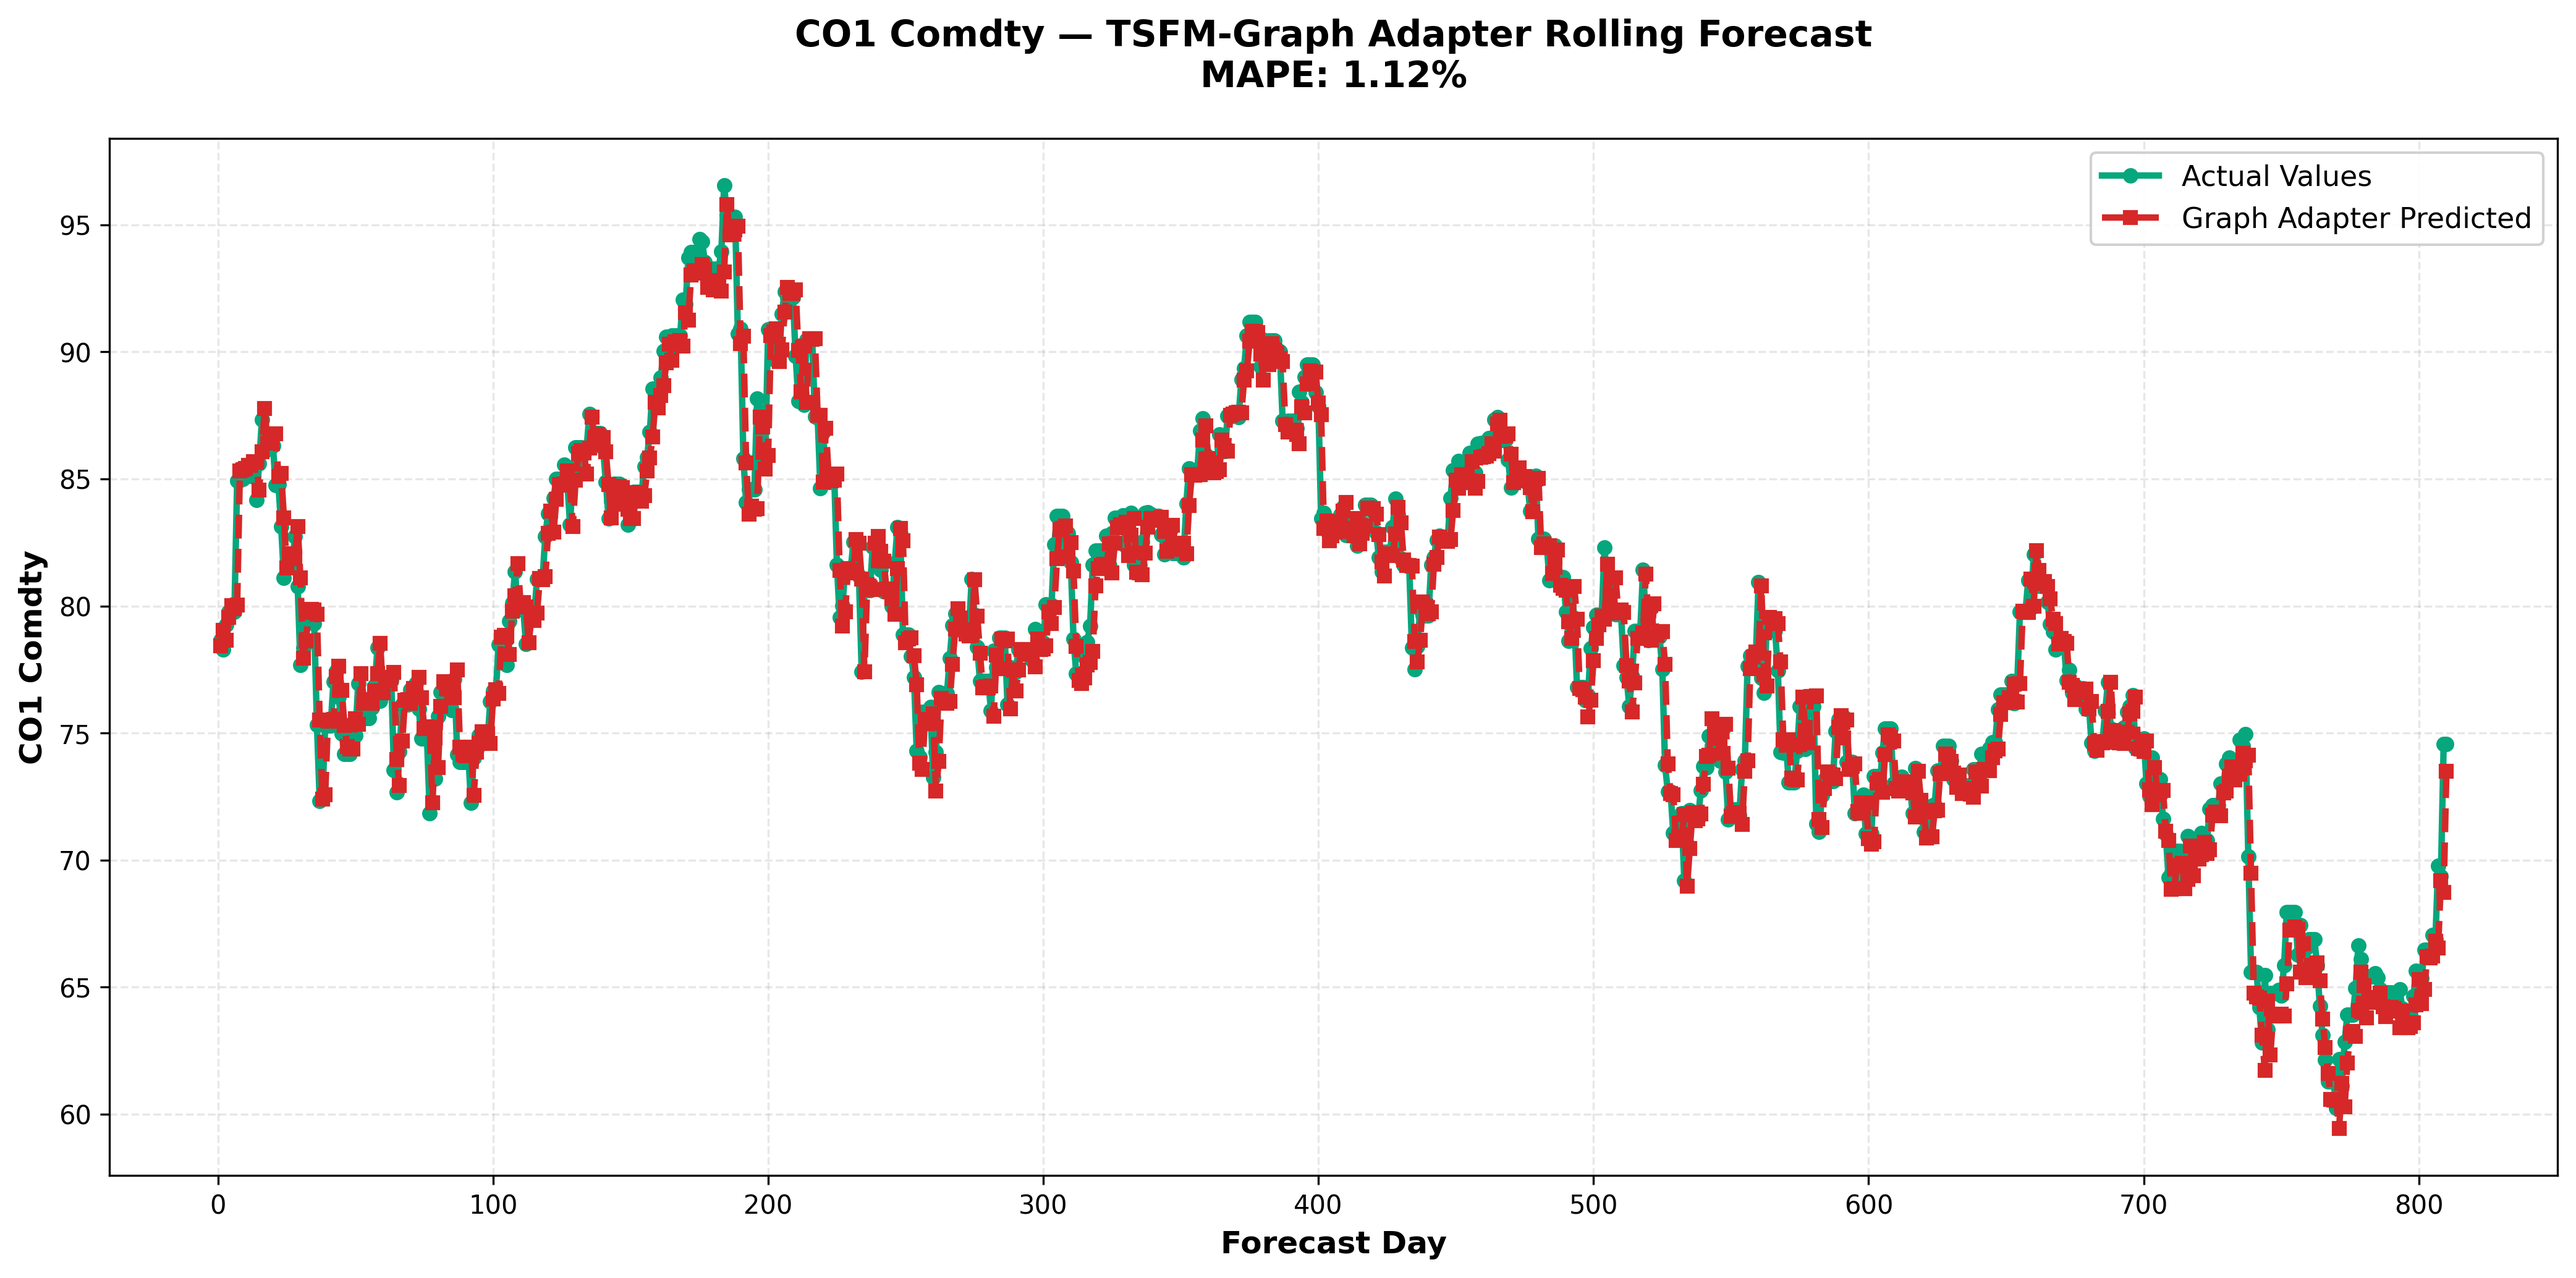
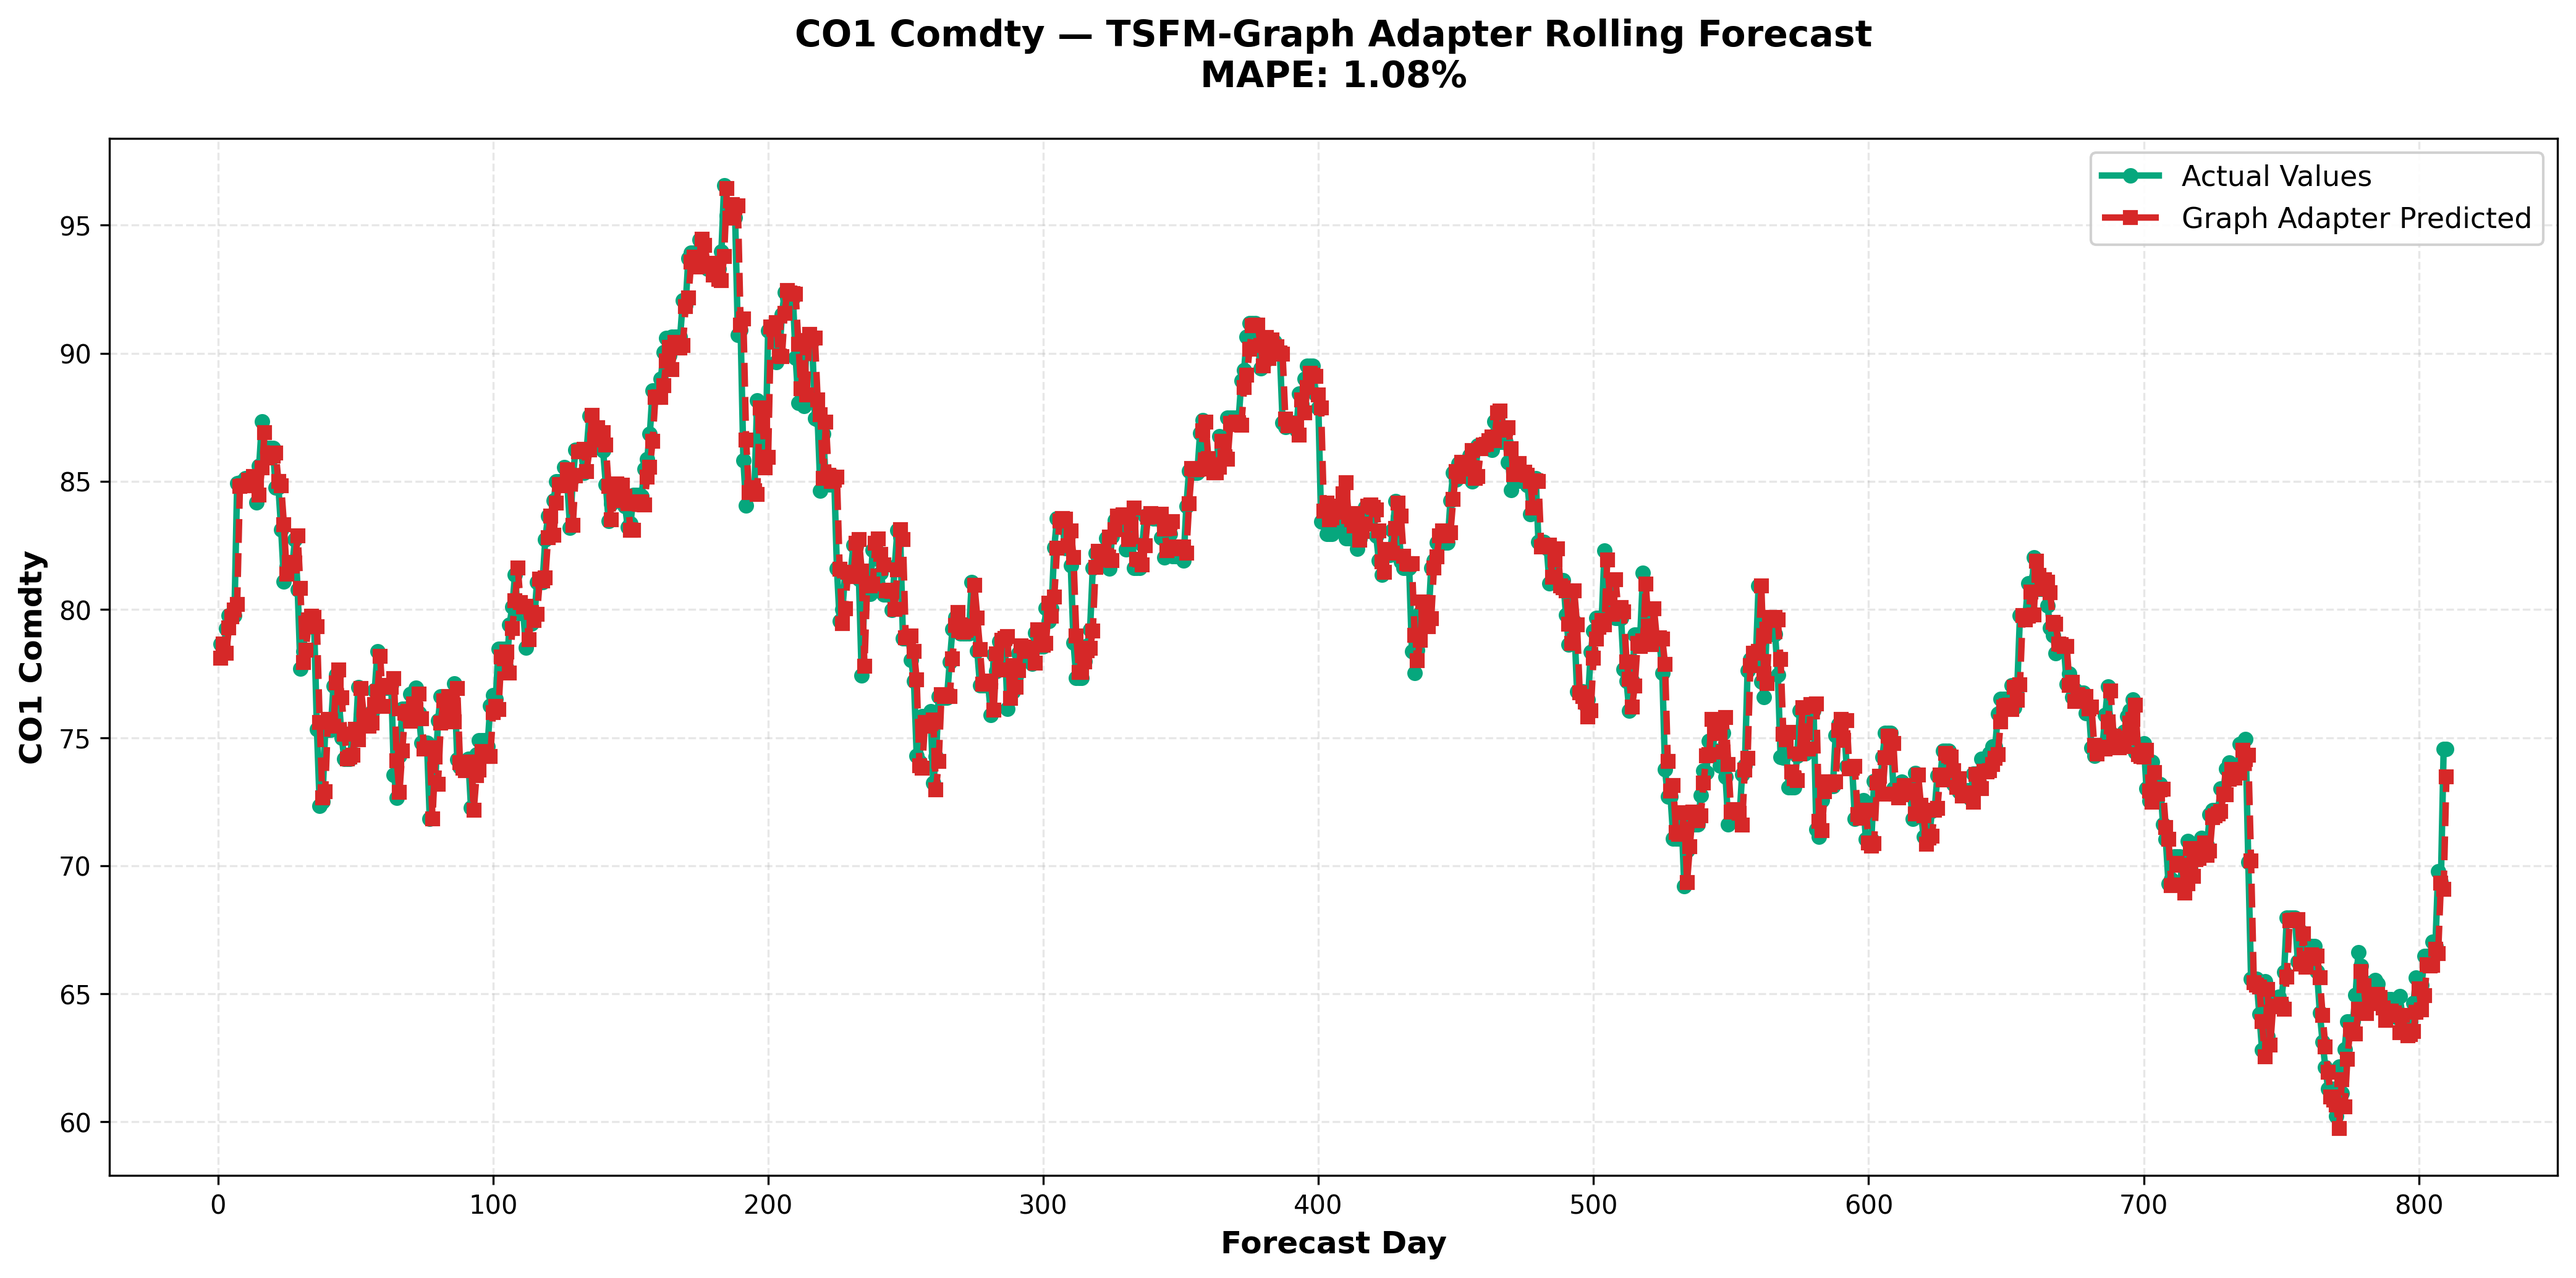
seed added

diff --git a/src/commodity_graph_forecast.py b/src/commodity_graph_forecast.py
@@ -24,10 +24,21 @@ import time
 from typing import Tuple, Dict, List, Optional
 from datetime import datetime
 
+import random
 import numpy as np
 import pandas as pd
 import torch
 import torch.nn as nn
+
+# ── Reproducibility ──────────────────────────────────────
+SEED = 42
+random.seed(SEED)
+np.random.seed(SEED)
+torch.manual_seed(SEED)
+if torch.cuda.is_available():
+    torch.cuda.manual_seed_all(SEED)
+torch.backends.cudnn.deterministic = True
+torch.backends.cudnn.benchmark = False
 import torch.nn.functional as F
 from torch.optim import AdamW
 from torch.optim.lr_scheduler import CosineAnnealingLR

diff --git a/src/junk/graph_adapter/tsfm_graph_model.py b/src/junk/graph_adapter/tsfm_graph_model.py
@@ -24,7 +24,7 @@ from typing import List, Optional, Tuple, Dict
 
 from .graph_structure import HybridGraphStructure
 from .gat_layer import GATNetwork
-from .cross_attention_adapter import CrossAttentionAdapter
+from ..junk.cross_attention_adapter import CrossAttentionAdapter
 from .embedding_extractor import TimesFMEmbeddingExtractor
 from .node_features import NodeFeatureBuilder
 
